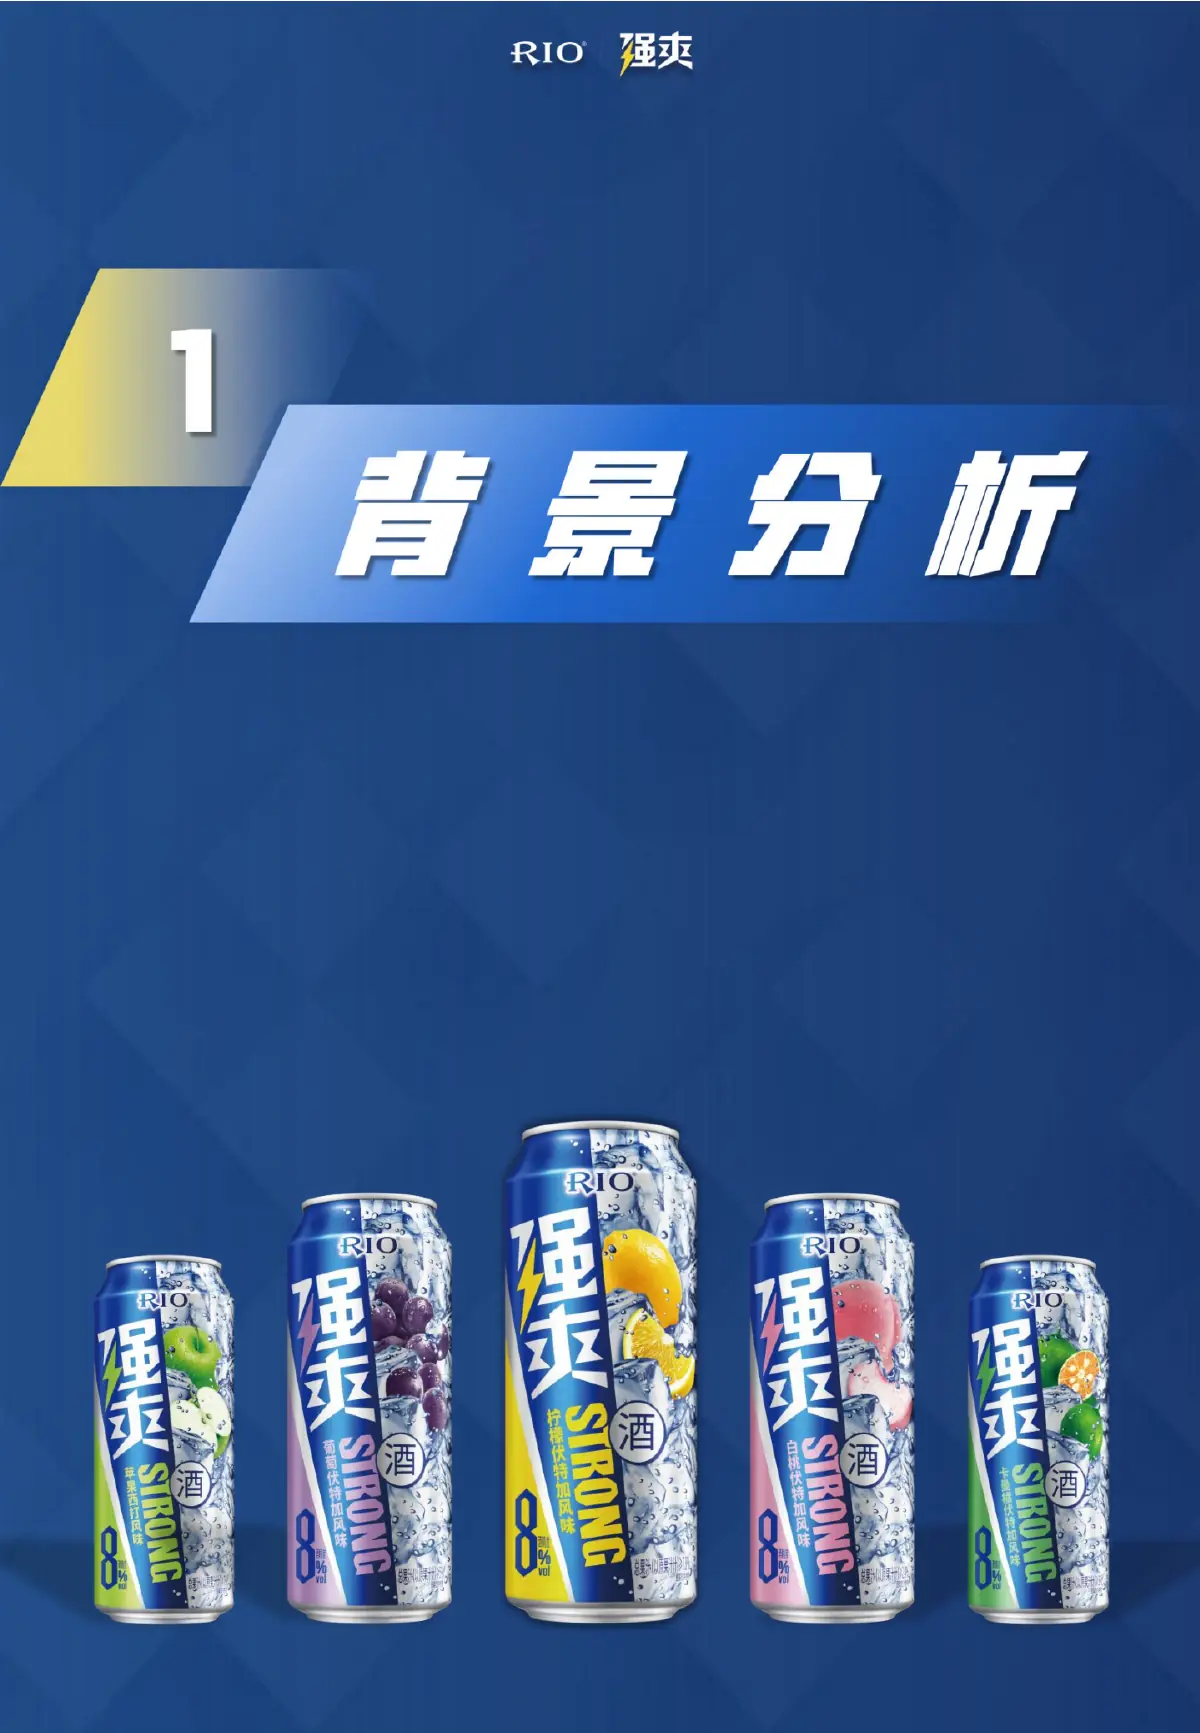
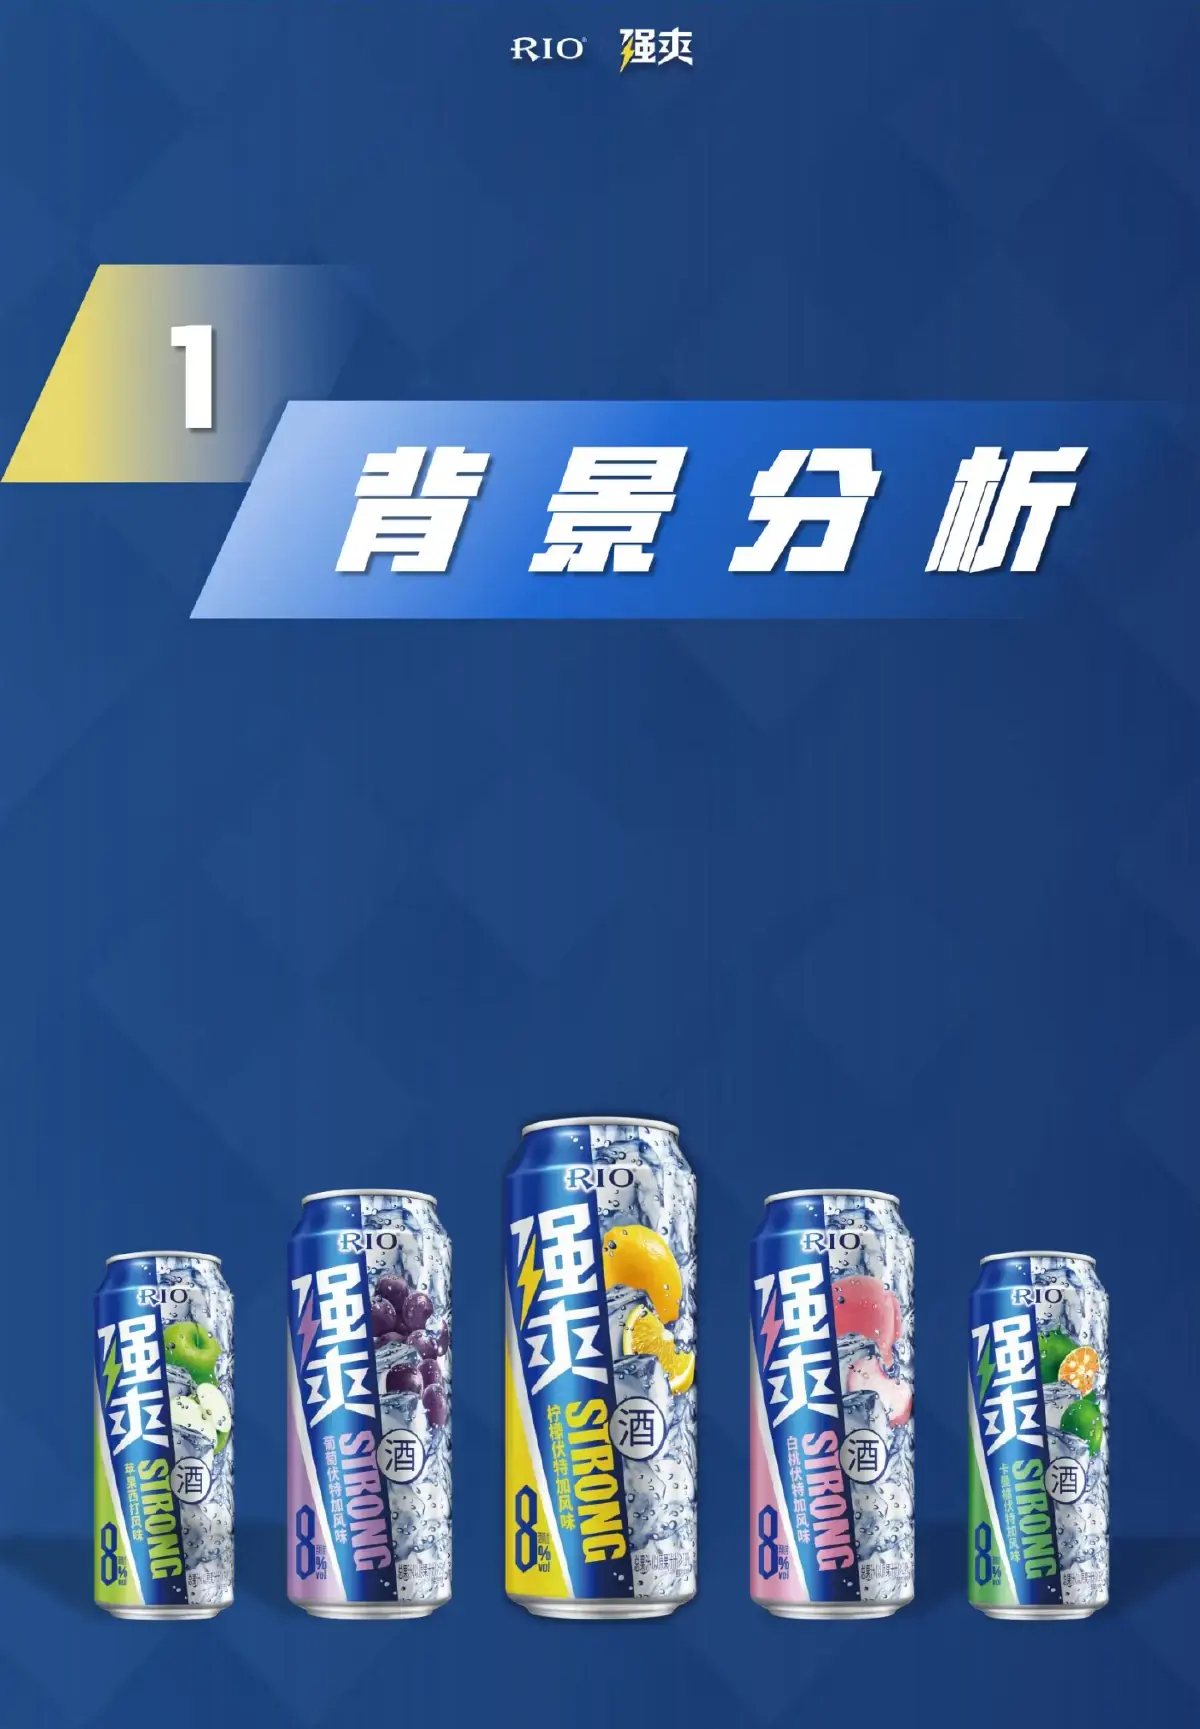
Campaigns: trim the thin white line off the top of every RIO page
All 24 pages and the card cover are cropped 4px from the top; page height
updated to match.

Claude-Session: https://claude.ai/code/session_01Y9R5cJ8fXn34yVfkQE1qkS

diff --git a/content/content.js b/content/content.js
@@ -921,7 +921,7 @@ window.SITE_CONTENT = {
       "cover": "media/plans/rio/cover.webp",
       "pages": 24,
       "w": 1200,
-      "h": 1733,
+      "h": 1729,
       "brand": {
         "zh": "RIO 强爽",
         "ja": "RIO 強爽",
